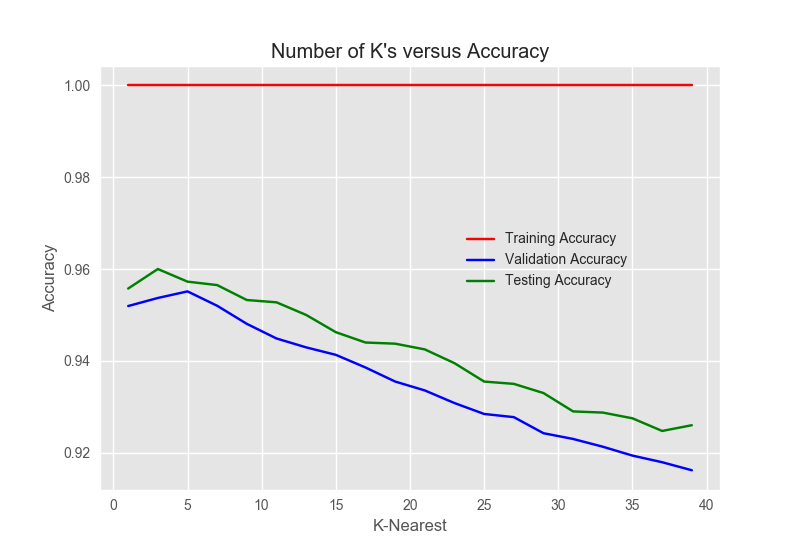
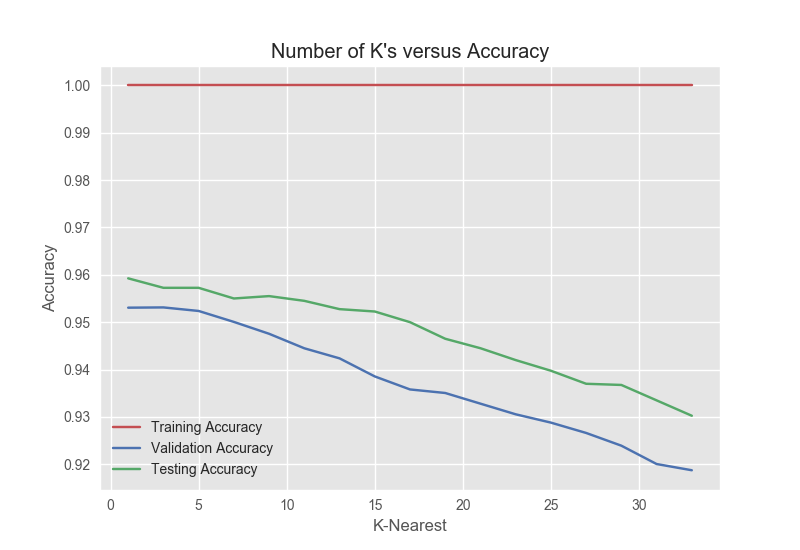
svm updates, plots

diff --git a/letter_svm.py b/letter_svm.py
@@ -1,11 +1,16 @@
 import csv
 import numpy as np
 import pandas as pd
+import matplotlib.pyplot as plt 
+import plotly.plotly as py
 from sklearn.model_selection import train_test_split
 from sklearn.preprocessing import LabelEncoder
 from sklearn.metrics import accuracy_score
 from sklearn import neighbors
 from sklearn import svm
+from sklearn.model_selection import cross_val_score
+from sklearn.model_selection import cross_val_predict
+from numpy import arange
 
 df = pd.read_csv("letter.csv")
 
@@ -25,33 +30,88 @@ train_x = train[[x for x in train.columns if label not in x]]
 test_y = test[label]
 test_x = test[[x for x in test.columns if label not in x]]
 
-print test_x.shape
-print test_y.shape
-print train_x.shape
-print train_y.shape
-
-# For knn
-print "--- KNN ---"
-for n_neighbors in range(1,21,2):
-    clf = neighbors.KNeighborsClassifier(n_neighbors, weights='distance')
-    clf.fit(train_x, train_y)
-
-    print 'K:', accuracy_score(test_y, clf.predict(test_x))
+training_accuracy = []
+validation_accuracy = []
+test_accuracy = []
+kernels = ['linear','poly', 'rbf']
 
 # For svm
 print '--- SVM ---'
-for kernel in ['linear','poly','rbf']:
+for kernel in kernels:
     if kernel == 'poly':
-        for d in range(1,4):
-            clf = svm.SVC(kernel='poly', degree=d)
-            clf.fit(train_x, train_y)
-            clf.predict(test_x)
-            print kernel, ', deg:', str(d),'-', accuracy_score(test_y, clf.predict(test_x))
+        clf = svm.SVC(kernel='poly', degree=2)
     else:
         clf = svm.SVC(kernel=kernel)
-        clf.fit(train_x, train_y)
-        clf.predict(test_x)
-        print kernel,'-', accuracy_score(test_y, clf.predict(test_x))
+        
+    clf = svm.SVC(kernel=kernel)
+    clf.fit(train_x, train_y)
+    clf.predict(test_x)
+    print kernel
 
+    training_accuracy.append(accuracy_score(train_y, clf.predict(train_x)))
+    cv = cross_val_score(clf, train_x, train_y, cv=7).mean()
+    validation_accuracy.append(cv)
+    test_accuracy.append(accuracy_score(test_y, clf.predict(test_x)))
 
+temp_x = arange(3)
+fig = plt.figure()
+plt.style.use('ggplot')
+plt.bar(temp_x - 0.3, training_accuracy, width=0.16, color='r', label="Training Accuracy")
+plt.bar(temp_x - 0.1, validation_accuracy, width=0.16, color='b', label="Validation Accuracy")
+plt.bar(temp_x + 0.1, test_accuracy, width=0.16, color='g', label="Testing Accuracy")
+plt.xticks(temp_x, kernels)
+plt.xlabel('Kernel')
+plt.ylabel('Accuracy')
+plt.legend(loc='best')
+plt.title('Kernel type versus Accuracy')
+fig.savefig('figures/letter_svm_kernel.png')
+plt.close(fig)
+
+# After finding the right kernel, experiment on training set size
+training_accuracy = []
+validation_accuracy = []
+test_accuracy = []
+training_size = [0.1, 0.2, 0.3, 0.4, 0.5, 0.6, 0.7, 0.8, 0.9]
+
+for s in training_size:
+    # Define the classifier
+    clf = svm.SVC(kernel='rbf')
+    
+    temp_train, _ = train_test_split(train, test_size= 1 - s)
+
+    # Train set
+    percent_train_y = temp_train[label]
+    percent_train_x = temp_train[[x for x in train.columns if label not in x]]
+
+    print percent_train_x.shape
+
+    clf.fit(percent_train_x, percent_train_y)
+
+    print 'Size: ', s, '%'
+    print accuracy_score(test_y, clf.predict(test_x))
+
+    training_accuracy.append(accuracy_score(percent_train_y, clf.predict(percent_train_x)))
+    cv = cross_val_score(clf, percent_train_x, percent_train_y, cv=7).mean()
+    validation_accuracy.append(cv)
+    test_accuracy.append(accuracy_score(test_y, clf.predict(test_x)))
+
+clf = svm.SVC(kernel='rbf')
+clf.fit(train_x, train_y)
+
+training_accuracy.append(accuracy_score(percent_train_y, clf.predict(percent_train_x)))
+cv = cross_val_score(clf, percent_train_x, percent_train_y, cv=7).mean()
+validation_accuracy.append(cv)
+test_accuracy.append(accuracy_score(test_y, clf.predict(test_x)))
+training_size.append(1)
+
+fig = plt.figure()
+line1, = plt.plot(training_size, training_accuracy, 'r', label="Training Accuracy")
+line2, = plt.plot(training_size, validation_accuracy, 'b', label="Validation Accuracy")
+line1, = plt.plot(training_size, test_accuracy, 'g', label="Testing Accuracy")
+plt.xlabel('Training Set Size (%)')
+plt.ylabel('Accuracy')
+plt.title('Training size versus Accuracy')
+plt.legend(loc='best')
+fig.savefig('figures/letter_svm_trainingSize.png')
+plt.close(fig)
 

diff --git a/nursery_svm.py b/nursery_svm.py
@@ -2,6 +2,7 @@ import csv
 import numpy as np
 import pandas as pd
 import matplotlib.pyplot as plt 
+import plotly.plotly as py
 from sklearn.model_selection import train_test_split
 from sklearn.preprocessing import LabelEncoder
 from sklearn.metrics import accuracy_score
@@ -9,7 +10,7 @@ from sklearn import neighbors
 from sklearn import svm
 from sklearn.model_selection import cross_val_score
 from sklearn.model_selection import cross_val_predict
-import seaborn as sns
+from numpy import arange
 
 df = pd.read_csv("nursery.csv")
 
@@ -18,27 +19,98 @@ labelencoder=LabelEncoder()
 for col in df.columns:
     df[col] = labelencoder.fit_transform(df[col])
 
-print df.shape
+# Split into train and test
+train, test = train_test_split(df, test_size = 0.20)
 
-# Split into train and test (75% train - 6499 rows, 25% test - 1625 rows)
-train, test = train_test_split(df, test_size = 0.25)
-
-label = 'result'
-# General x,y
-data_y = df[label]
-data_x = df[[x for x in train.columns if label not in x]]
 # Train set
+label = 'result'
 train_y = train[label]
 train_x = train[[x for x in train.columns if label not in x]]
 # Test/Validation set
 test_y = test[label]
 test_x = test[[x for x in test.columns if label not in x]]
 
+training_accuracy = []
+validation_accuracy = []
+test_accuracy = []
+kernels = ['linear','poly', 'rbf']
+
 # For svm
 print '--- SVM ---'
-for kernel in ['linear','poly','rbf']:
+for kernel in kernels:
+    if kernel == 'poly':
+        clf = svm.SVC(kernel='poly', degree=2)
+    else:
+        clf = svm.SVC(kernel=kernel)
+        
     clf = svm.SVC(kernel=kernel)
     clf.fit(train_x, train_y)
     clf.predict(test_x)
-    print kernel,'-', accuracy_score(test_y, clf.predict(test_x))
+    print kernel
 
+    training_accuracy.append(accuracy_score(train_y, clf.predict(train_x)))
+    cv = cross_val_score(clf, train_x, train_y, cv=7).mean()
+    validation_accuracy.append(cv)
+    test_accuracy.append(accuracy_score(test_y, clf.predict(test_x)))
+
+temp_x = arange(3)
+fig = plt.figure()
+plt.style.use('ggplot')
+plt.bar(temp_x - 0.3, training_accuracy, width=0.16, color='r', label="Training Accuracy")
+plt.bar(temp_x - 0.1, validation_accuracy, width=0.16, color='b', label="Validation Accuracy")
+plt.bar(temp_x + 0.1, test_accuracy, width=0.16, color='g', label="Testing Accuracy")
+plt.xticks(temp_x, kernels)
+plt.xlabel('Kernel')
+plt.ylabel('Accuracy')
+plt.legend(loc='best')
+plt.title('Kernel type versus Accuracy')
+fig.savefig('figures/nursery_svm_kernel.png')
+plt.close(fig)
+
+# After finding the right kernel, experiment on training set size
+training_accuracy = []
+validation_accuracy = []
+test_accuracy = []
+training_size = [0.1, 0.2, 0.3, 0.4, 0.5, 0.6, 0.7, 0.8, 0.9]
+
+for s in training_size:
+    # Define the classifier
+    clf = svm.SVC(kernel='rbf')
+    
+    temp_train, _ = train_test_split(train, test_size= 1 - s)
+
+    # Train set
+    percent_train_y = temp_train[label]
+    percent_train_x = temp_train[[x for x in train.columns if label not in x]]
+
+    print percent_train_x.shape
+
+    clf.fit(percent_train_x, percent_train_y)
+
+    print 'Size: ', s, '%'
+    print accuracy_score(test_y, clf.predict(test_x))
+
+    training_accuracy.append(accuracy_score(percent_train_y, clf.predict(percent_train_x)))
+    cv = cross_val_score(clf, percent_train_x, percent_train_y, cv=7).mean()
+    validation_accuracy.append(cv)
+    test_accuracy.append(accuracy_score(test_y, clf.predict(test_x)))
+
+clf = svm.SVC(kernel='rbf')
+clf.fit(train_x, train_y)
+
+training_accuracy.append(accuracy_score(percent_train_y, clf.predict(percent_train_x)))
+cv = cross_val_score(clf, percent_train_x, percent_train_y, cv=7).mean()
+validation_accuracy.append(cv)
+test_accuracy.append(accuracy_score(test_y, clf.predict(test_x)))
+training_size.append(1)
+
+fig = plt.figure()
+line1, = plt.plot(training_size, training_accuracy, 'r', label="Training Accuracy")
+line2, = plt.plot(training_size, validation_accuracy, 'b', label="Validation Accuracy")
+line1, = plt.plot(training_size, test_accuracy, 'g', label="Testing Accuracy")
+plt.xlabel('Training Set Size (%)')
+plt.ylabel('Accuracy')
+plt.title('Training size versus Accuracy')
+plt.legend(loc='best')
+fig.savefig('figures/nursery_svm_trainingSize.png')
+plt.close(fig)

diff --git a/letter_knn.py b/letter_knn.py
@@ -17,14 +17,14 @@ df = pd.read_csv("letter.csv")
 
 # Convert strings into frequency numbers
 labelencoder=LabelEncoder()
-# for col in df.columns:
-df['lettr'] = labelencoder.fit_transform(df['lettr'])
+for col in df.columns:
+    df[col] = labelencoder.fit_transform(df[col])
 
 # Split into train and test
 train, test = train_test_split(df, test_size = 0.20)
 
-# Train set
 label = 'lettr'
+# Train set
 train_y = train[label]
 train_x = train[[x for x in train.columns if label not in x]]
 # Test/Validation set
@@ -34,11 +34,11 @@ test_x = test[[x for x in test.columns if label not in x]]
 training_accuracy = []
 validation_accuracy = []
 test_accuracy = []
-k_values = range(1,41,2)
+k_values = range(1,35,2)
 
-# For knn
-print "--- KNN ---"
+# For knn, experiment on different k values
 for k in k_values:
+
     # Define the classifier
     clf = neighbors.KNeighborsClassifier(k, weights='distance')
     clf.fit(train_x, train_y)
@@ -50,6 +50,7 @@ for k in k_values:
     validation_accuracy.append(cv)
     test_accuracy.append(accuracy_score(test_y, clf.predict(test_x)))
 
+# Plot the k values graph
 plt.style.use('ggplot')
 fig = plt.figure()
 line1, = plt.plot(k_values, training_accuracy, 'r', label="Training Accuracy")
@@ -58,9 +59,57 @@ line1, = plt.plot(k_values, test_accuracy, 'g', label="Testing Accuracy")
 plt.xlabel('K-Nearest')
 plt.ylabel('Accuracy')
 plt.title('Number of K\'s versus Accuracy')
-plt.legend(bbox_to_anchor=(0.8, 0.6), bbox_transform=plt.gcf().transFigure)
+plt.legend(loc='best')
 fig.savefig('figures/letter_knn_knumber.png')
 plt.close(fig)
 
 
+# After finding the right k value, experiment on training set size
+k = 15
+training_accuracy = []
+validation_accuracy = []
+test_accuracy = []
+training_size = [0.1, 0.2, 0.3, 0.4, 0.5, 0.6, 0.7, 0.8, 0.9]
 
+print "--- KNN ---"
+for s in training_size:
+    # Define the classifier
+    clf = neighbors.KNeighborsClassifier(k, weights='distance')
+    
+    temp_train, _ = train_test_split(train, test_size= 1 - s)
+
+    # Train set
+    percent_train_y = temp_train[label]
+    percent_train_x = temp_train[[x for x in train.columns if label not in x]]
+
+    print percent_train_x.shape
+
+    clf.fit(percent_train_x, percent_train_y)
+
+    print 'Size: ', s, '%'
+    print accuracy_score(test_y, clf.predict(test_x))
+
+    training_accuracy.append(accuracy_score(percent_train_y, clf.predict(percent_train_x)))
+    cv = cross_val_score(clf, percent_train_x, percent_train_y, cv=7).mean()
+    validation_accuracy.append(cv)
+    test_accuracy.append(accuracy_score(test_y, clf.predict(test_x)))
+
+clf = neighbors.KNeighborsClassifier(k, weights='distance')
+clf.fit(train_x, train_y)
+
+training_accuracy.append(accuracy_score(percent_train_y, clf.predict(percent_train_x)))
+cv = cross_val_score(clf, percent_train_x, percent_train_y, cv=7).mean()
+validation_accuracy.append(cv)
+test_accuracy.append(accuracy_score(test_y, clf.predict(test_x)))
+training_size.append(1)
+
+fig = plt.figure()
+line1, = plt.plot(training_size, training_accuracy, 'r', label="Training Accuracy")
+line2, = plt.plot(training_size, validation_accuracy, 'b', label="Validation Accuracy")
+line1, = plt.plot(training_size, test_accuracy, 'g', label="Testing Accuracy")
+plt.xlabel('Training Set Size (%)')
+plt.ylabel('Accuracy')
+plt.title('Training size versus Accuracy')
+plt.legend(loc='best')
+fig.savefig('figures/letter_knn_trainingSize.png')
+plt.close(fig)

diff --git a/nursery_knn.py b/nursery_knn.py
@@ -21,7 +21,7 @@ for col in df.columns:
     df[col] = labelencoder.fit_transform(df[col])
 
 # Split into train and test
-train, test = train_test_split(df, test_size = 0.25)
+train, test = train_test_split(df, test_size = 0.20)
 
 label = 'result'
 # Train set
